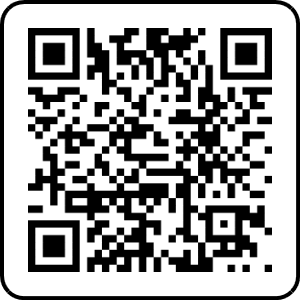
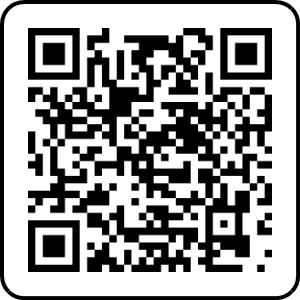
cs

Changed region(s): [[0.09, 0.09, 0.93, 0.93]]

diff --git a/lecture/data_science/2025/index.html b/lecture/data_science/2025/index.html
@@ -40,8 +40,9 @@
             <p><b>教科書「データサイエンスのための数学」を持ってきてください。紙のノートも持ってきた方が良いです。</b></p>
         </div>
         <div>
+        <div>
             <p>
-                <a href="https://www.commentscreen.com/comments?id=voABQKLPVll4cge7sDrT">CommentScreen</a><br>
+                <a href="https://www.commentscreen.com/comments?id=7T4hYup3YLDChLTC2Vnu">CommentScreen</a><br>
                 <img src="cs/CS2.png" width="150" height="150">
             </p>
         </div>
